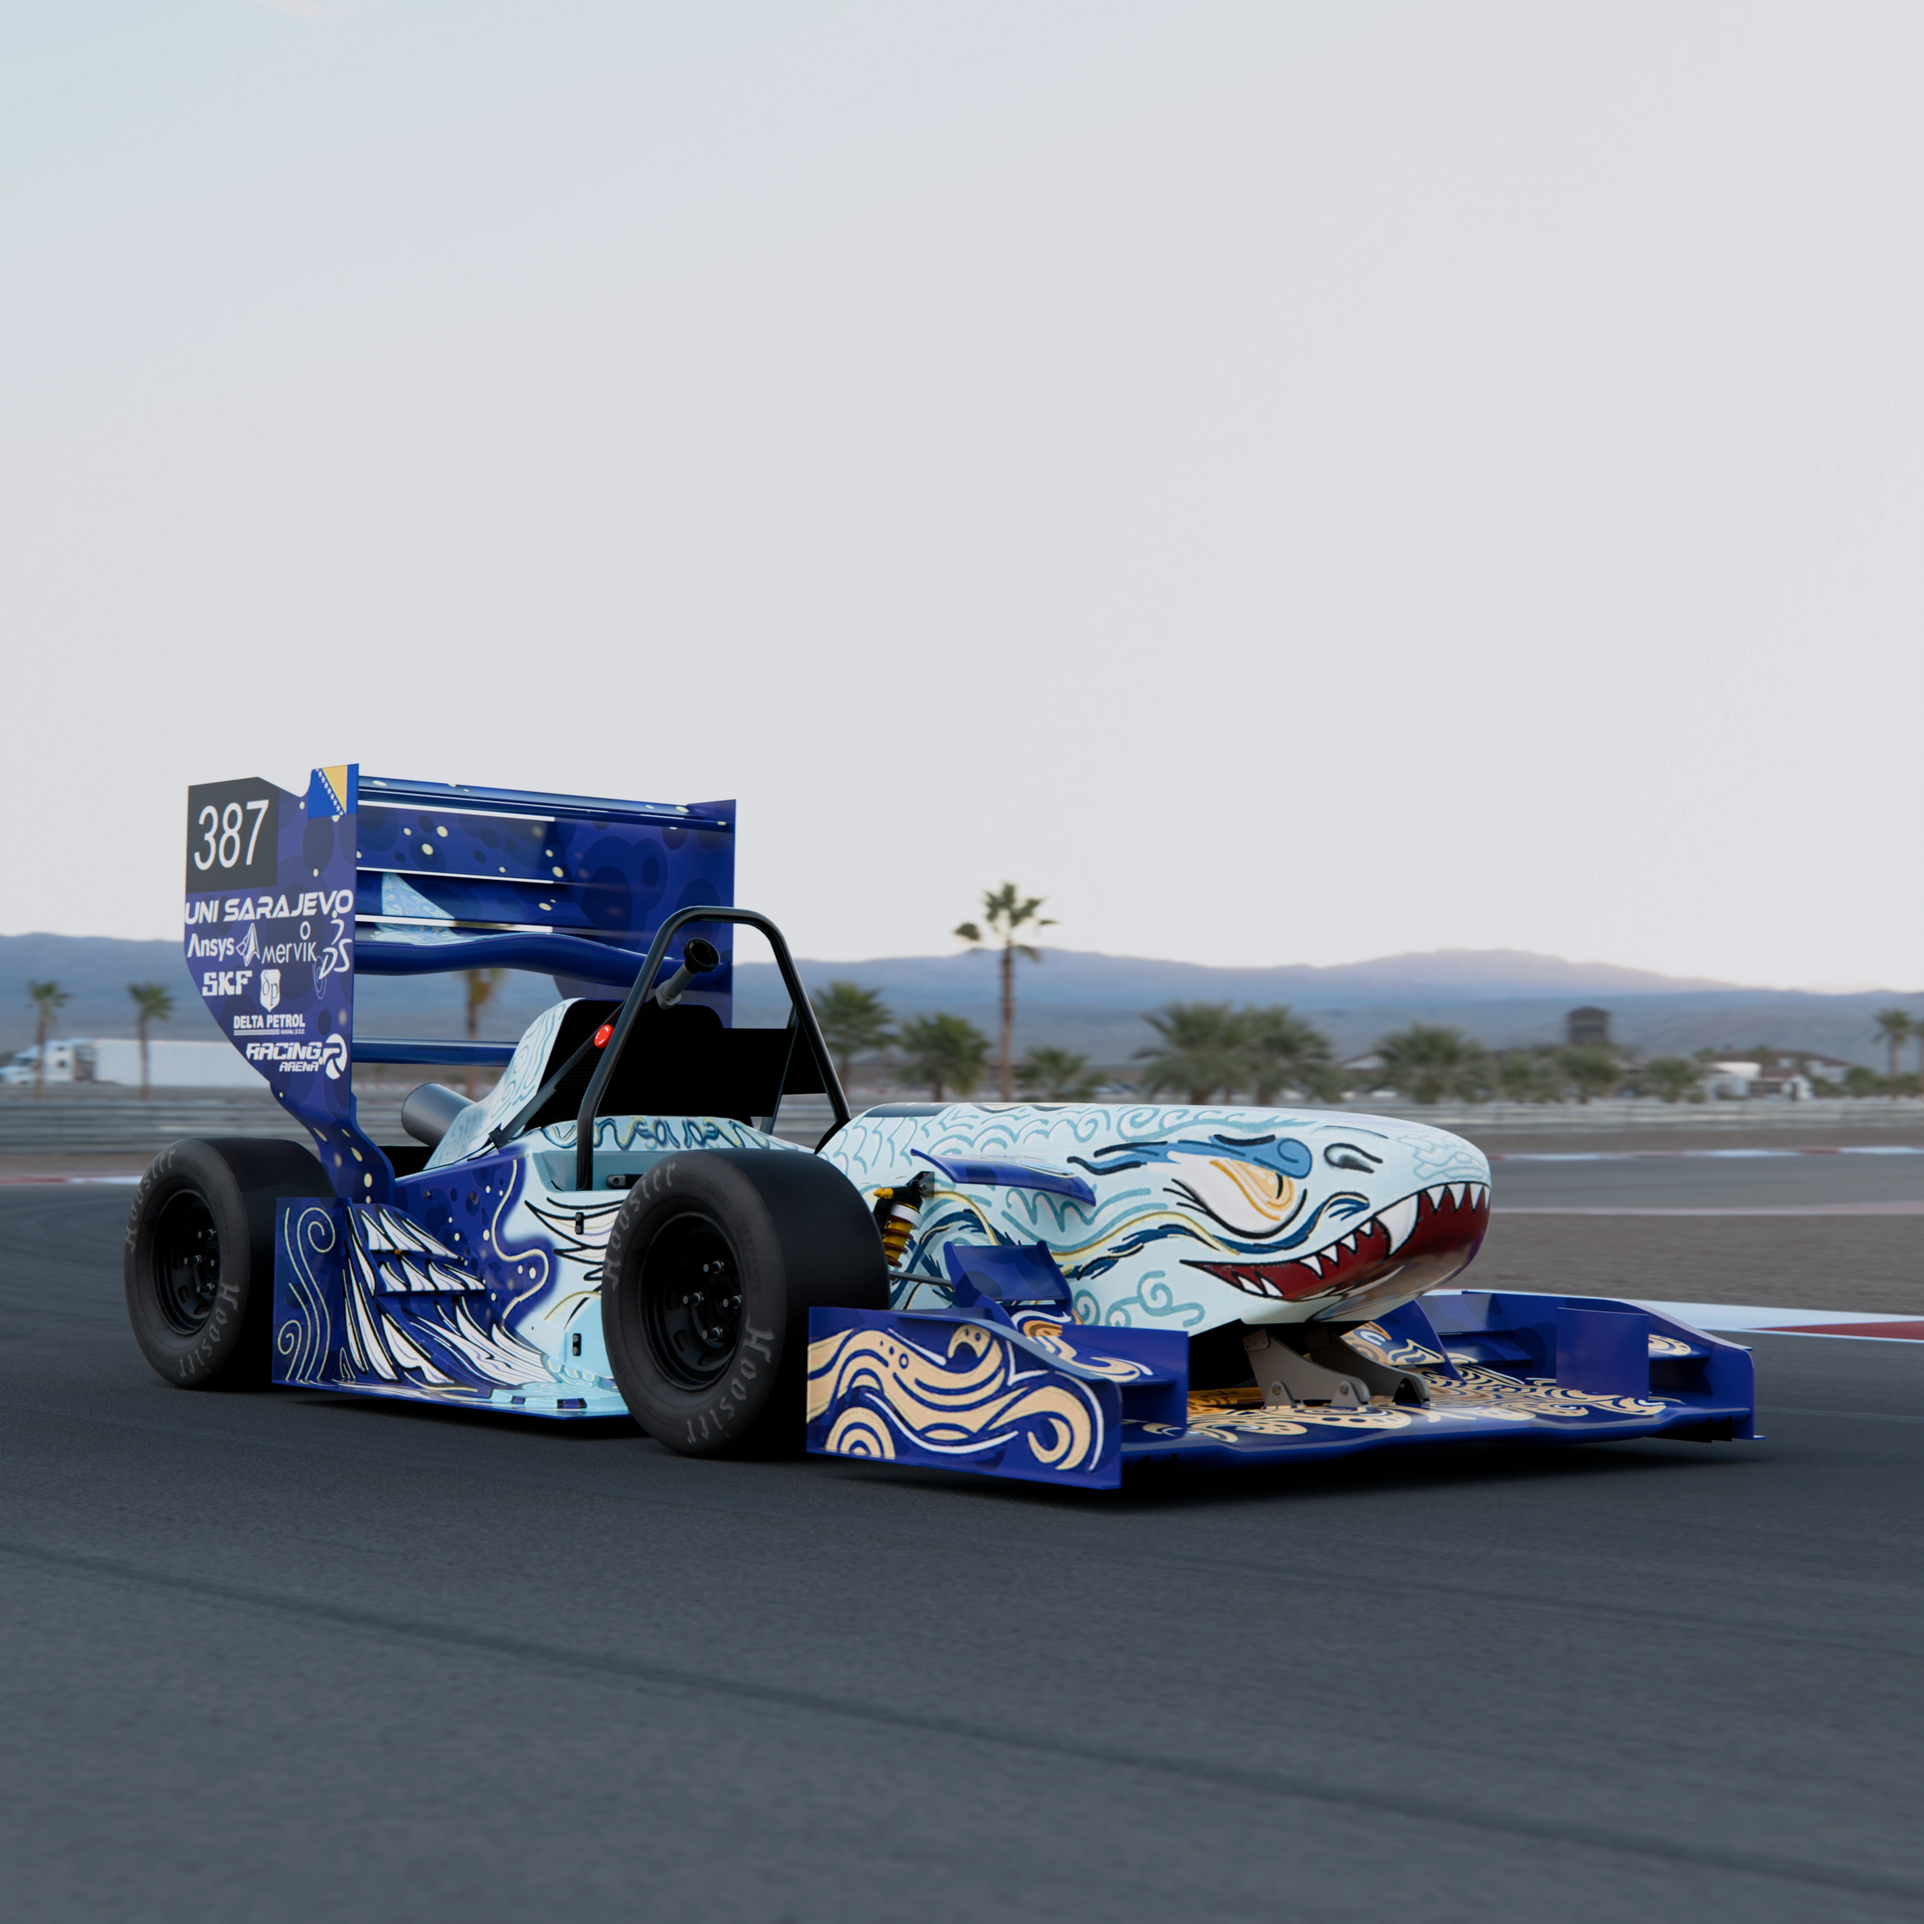
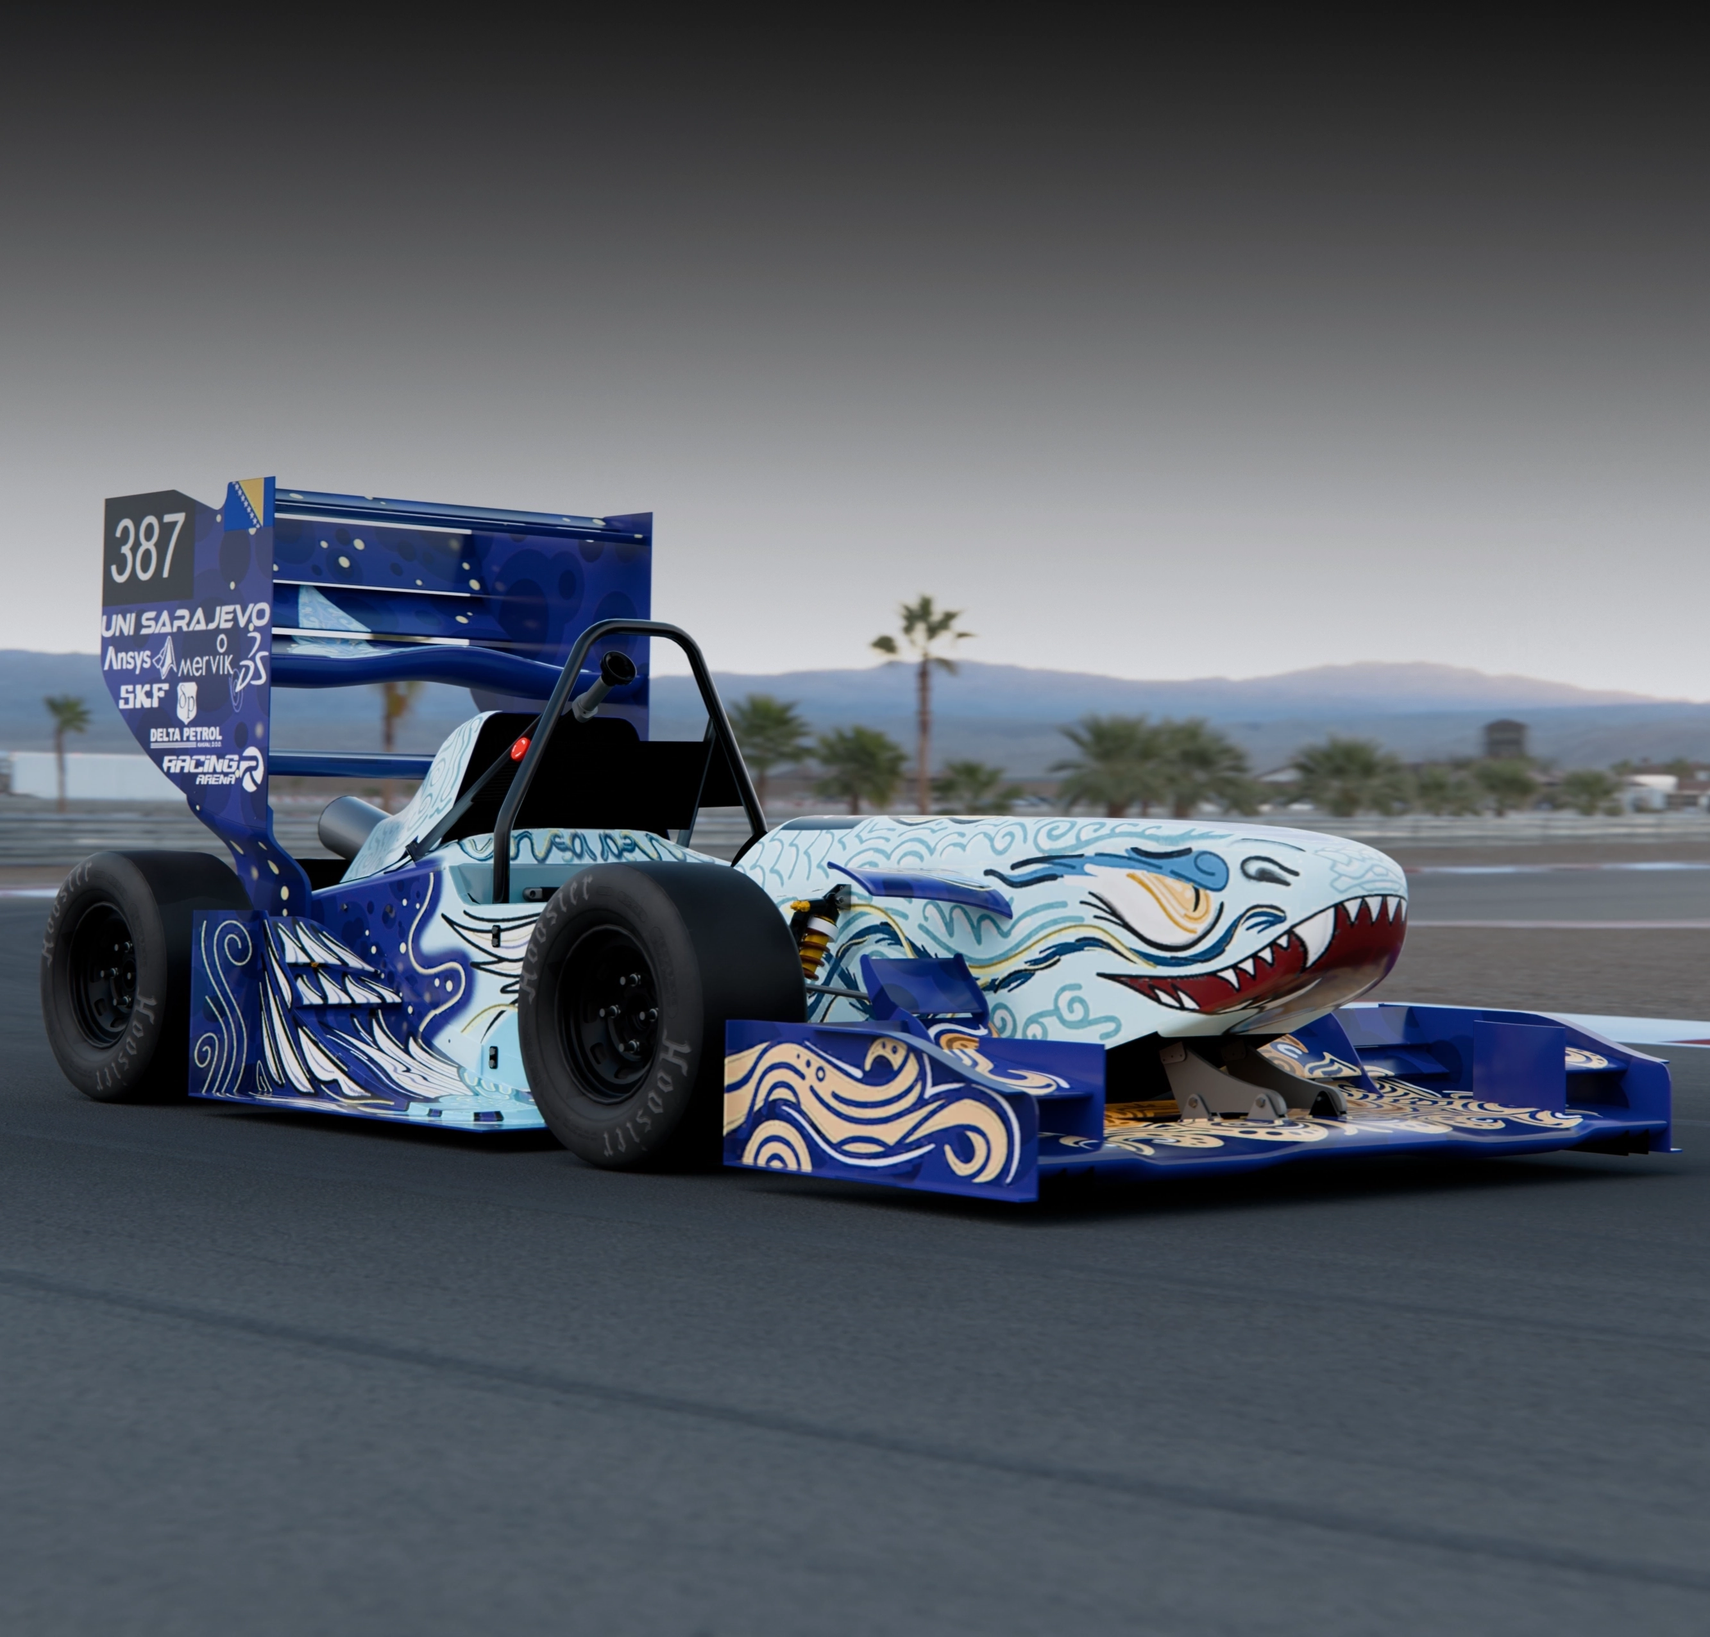
temp

diff --git a/unsa-racing-webpage/src/pages/Home/Hero/Hero.css b/unsa-racing-webpage/src/pages/Home/Hero/Hero.css
@@ -10,14 +10,24 @@
 }
 
 .homeBackgroundImage {
+    position: absolute;
     inset: 0;
     width: 100%;
-    height: auto;
-    max-height: 100px;
+    height: 100%;
     object-fit: cover;
-    object-position: top; /* važan dio */
-    z-index: 1; /* ako želiš da bude iza cijelog sadržaja */
-    overflow: visible;
+    object-position: center center;
+    z-index: 1;
+}
+
+.homeForegroundImage {
+    position: absolute;
+    inset: 0;
+    width: 100%;
+    height: 100%;
+    object-fit: cover;
+    object-position: center center;
+    z-index: 10;
+    pointer-events: none;
 }
 
 /* Dark overlay */
@@ -72,21 +82,23 @@
 =========================== */
 .homeContent {
     position: absolute;
-    right: 15%;            /* pomjereno malo prema centru */
-    top: 35%;              /* precizniji vertikalni položaj */
+    right: 2%;            /* pushed more to the right */
+    top: 20%;
     display: flex;
     flex-direction: column;
-    align-items: center;   /* centrirano horizontalno */
-    text-align: center;    /* tekst centriran */
+    align-items: center;
+    text-align: center;
     z-index: 5;
     color: white;
+    max-width: 500px;     /* narrower content */
+    width: 100%;
 }
 
 /* NASLOV */
 .homeTitle {
-    font-family: 'Teko', sans-serif;
-    font-weight: 400;   /* Regular */
-    font-size: 96px;    /* kao u slici */
+    font-family: 'Poppins', sans-serif;
+    font-weight: 400;
+    font-size: 72px;    /* smaller font */
     line-height: 100%;
     letter-spacing: 0;
     text-transform: uppercase;
@@ -98,8 +110,8 @@
 /* PODNASLOV */
 .homeSubtitle {
     font-family: 'Poppins', sans-serif;
-    font-weight: 300;   /* Light */
-    font-size: 24px;
+    font-weight: 300;
+    font-size: 18px;    /* smaller font */
     line-height: 100%;
     letter-spacing: 0;
     text-align: center;
@@ -149,7 +161,7 @@
 
     transform: translateY(-30%);
 
-    opacity: 0.50;
+    opacity: 1;         /* full opacity */
     pointer-events: none;
     transition: opacity 0.4s ease;
     overflow-y: hidden;

diff --git a/unsa-racing-webpage/src/components/Header/Header.css b/unsa-racing-webpage/src/components/Header/Header.css
@@ -2,10 +2,10 @@
 .headerDiv {
   display: flex;
   align-items: center;
+  justify-content: space-between;
   width: 100%;
   padding: 10px 30px;
-  gap: 5%;
-  background: transparent;
+  background: linear-gradient(to bottom, rgba(26, 29, 31, 0.25) 0%, rgba(220, 221, 225, 0) 100%);
   user-select: none;
   position: fixed; /* Changed from absolute to fixed for better scroll behavior */
   top: 0;
@@ -24,9 +24,8 @@
 
 /* Logo */
 .headerLogo {
-  margin-left: 50%;
   height: 100%;       /* zauzima visinu headera */
-  width: 100%;        /* proporcionalno */
+  width: auto;        /* proporcionalno */
   max-height: 60px;   /* ograničenje da ne bude prevelik */
 }
 
@@ -55,12 +54,48 @@
   font-weight: bold;
   cursor: pointer;    /* ruka */
   transition: color 0.2s;
+  position: relative; /* Needed for absolute positioning of pseudo-element */
+  padding-bottom: 5px; /* Space for the underline */
 }
 
 .navLink.active {
   color: white;       /* White for active link */
 }
 
+/* Gradient Underline for Active Link */
+.navLink.active::after {
+  content: '';
+  position: absolute;
+  left: 0;
+  bottom: 0;
+  width: 100%;
+  height: 3px;
+  background: linear-gradient(90deg, #0047AB 33%, #FFFFFF 33%, #FFFFFF 66%, #FFD700 66%);
+}
+
+.headerDiv.is-home:not(.scrolled) .navLink.active::after {
+  content: '';
+  position: absolute;
+  left: 0;
+  bottom: 0;
+  width: 100%;
+  height: 3px;
+  background: #ffffff;
+}
+
 .navLink:hover {
   color: #FFD700;     /* hover efekat */
+}
+
+/* Home Top State (Transparent/Gradient Background) */
+/* Home Top State (Transparent/Gradient Background) */
+.headerDiv.is-home:not(.scrolled) .navLink.active {
+  /* Underline is handled by pseudo-element now */
+  color: #ffffff;
+  text-shadow: 2px 3px 6px rgba(0, 0, 0, 0.5); /* Improved contrast */
+}
+
+.headerDiv.is-home:not(.scrolled) .navLink:not(.active) {
+  color: #dddddd; /* Brighter, almost white for better visibility against hero */
+  text-shadow: 2px 3px 6px rgba(0, 0, 0, 0.5); /* Improved contrast */
 }

diff --git a/unsa-racing-webpage/src/pages/Home/Hero/Hero.jsx b/unsa-racing-webpage/src/pages/Home/Hero/Hero.jsx
@@ -6,11 +6,17 @@ const Hero = () => {
 
             <img
                 className="homeBackgroundImage"
-                src="../src/assets/Home/garage.svg"
+                src="../src/assets/Home/vfsaa livery image.webp"
                 alt="Garage"
             />
+            
+            <img
+                className="homeForegroundImage"
+                src="../src/assets/Home/vfsaa livery image transparent.webp"
+                alt="Car Foreground"
+            />
 
-            <div className="heroVisual">
+            {/* <div className="heroVisual">
                 <img 
                     className="dragon"
                     src="../src/assets/Home/dragon.svg"
@@ -22,7 +28,7 @@ const Hero = () => {
                     src="../src/assets/Home/car.svg"
                     alt="Car"
                 />
-            </div>
+            </div> */}
 
             <div className="homeContent">
                 <h1 className="homeTitle">UNSA RACING TEAM</h1>

diff --git a/unsa-racing-webpage/src/components/BlogPost/BlogPost.css b/unsa-racing-webpage/src/components/BlogPost/BlogPost.css
@@ -48,7 +48,7 @@
 }
 
 .blog-post-title {
-  font-family: 'Teko', sans-serif;
+  font-family: 'Poppins', sans-serif;
   font-size: 48px;
   font-weight: 400;
   line-height: 1.2;
@@ -84,7 +84,7 @@
 .blog-post-body h2,
 .blog-post-body h3,
 .blog-post-body h4 {
-  font-family: 'Teko', sans-serif;
+  font-family: 'Poppins', sans-serif;
   color: #fff;
   margin-top: 40px;
   margin-bottom: 20px;
@@ -184,7 +184,7 @@
 }
 
 .blog-error h2 {
-  font-family: 'Teko', sans-serif;
+  font-family: 'Poppins', sans-serif;
   font-size: 36px;
   margin-bottom: 20px;
   text-transform: uppercase;

diff --git a/unsa-racing-webpage/index.html b/unsa-racing-webpage/index.html
@@ -5,7 +5,7 @@
     <link rel="icon" type="image/png" href="/logo.png?v=3" />
         <meta name="viewport" content="width=device-width, initial-scale=1.0"/>
     <title>UNSA Racing</title>
-<link href="https://fonts.googleapis.com/css2?family=Poppins:wght@300;400;500&family=Teko:wght@400;700&display=swap" rel="stylesheet">
+<link href="https://fonts.googleapis.com/css2?family=Poppins:wght@300;400;500;600;700&display=swap" rel="stylesheet">
   </head>
   <body>
     <div id="root"></div>

diff --git a/unsa-racing-webpage/src/pages/Home/Team/Team.css b/unsa-racing-webpage/src/pages/Home/Team/Team.css
@@ -93,7 +93,7 @@ html {
 }
 
 .info-title {
-  font-family: 'Teko', sans-serif;
+  font-family: 'Poppins', sans-serif;
   font-size: 48px;
   font-weight: 400;
   letter-spacing: 3px;
@@ -146,7 +146,7 @@ html {
 }
 
 .team-title {
-  font-family: 'Teko', sans-serif;
+  font-family: 'Poppins', sans-serif;
   font-size: 48px;
   font-weight: 400;
   letter-spacing: 3px;

diff --git a/unsa-racing-webpage/src/pages/News/News.css b/unsa-racing-webpage/src/pages/News/News.css
@@ -18,7 +18,7 @@
 }
 
 .news-page-title {
-  font-family: 'Teko', sans-serif;
+  font-family: 'Poppins', sans-serif;
   font-size: 64px;
   font-weight: 400;
   text-transform: uppercase;
@@ -87,7 +87,7 @@
 }
 
 .post-title {
-  font-family: 'Teko', sans-serif;
+  font-family: 'Poppins', sans-serif;
   font-size: 36px;
   font-weight: 400;
   line-height: 1.2;

diff --git a/unsa-racing-webpage/src/components/Header/Header.jsx b/unsa-racing-webpage/src/components/Header/Header.jsx
@@ -33,7 +33,7 @@ const Header = () => {
   };
 
   return (
-    <header className={`headerDiv ${isScrolled ? 'scrolled' : ''}`}>
+    <header className={`headerDiv ${isScrolled ? 'scrolled' : ''} ${location.pathname === '/' ? 'is-home' : ''}`}>
       {/* Logo */}
       <Link to="/" className="logoLink">
         <img

diff --git a/unsa-racing-webpage/src/pages/Sponsors/Sponsors.css b/unsa-racing-webpage/src/pages/Sponsors/Sponsors.css
@@ -12,7 +12,7 @@
 }
 
 .sponsors-page-title {
-  font-family: 'Teko', sans-serif;
+  font-family: 'Poppins', sans-serif;
   font-size: 64px;
   font-weight: 400;
   text-transform: uppercase;

diff --git a/unsa-racing-webpage/src/components/Footer/Footer.css b/unsa-racing-webpage/src/components/Footer/Footer.css
@@ -33,7 +33,7 @@
 }
 
 .footer-title {
-  font-family: 'Teko', sans-serif;
+  font-family: 'Poppins', sans-serif;
   font-size: 1.25rem;
   font-weight: 400;
   text-transform: uppercase;

diff --git a/unsa-racing-webpage/src/pages/Home/HomeSponsors/HomeSponsors.css b/unsa-racing-webpage/src/pages/Home/HomeSponsors/HomeSponsors.css
@@ -14,7 +14,7 @@
 }
 
 .sponsors-title {
-  font-family: 'Teko', sans-serif;
+  font-family: 'Poppins', sans-serif;
   font-size: 3rem;
   font-weight: 400;
   color: white;
